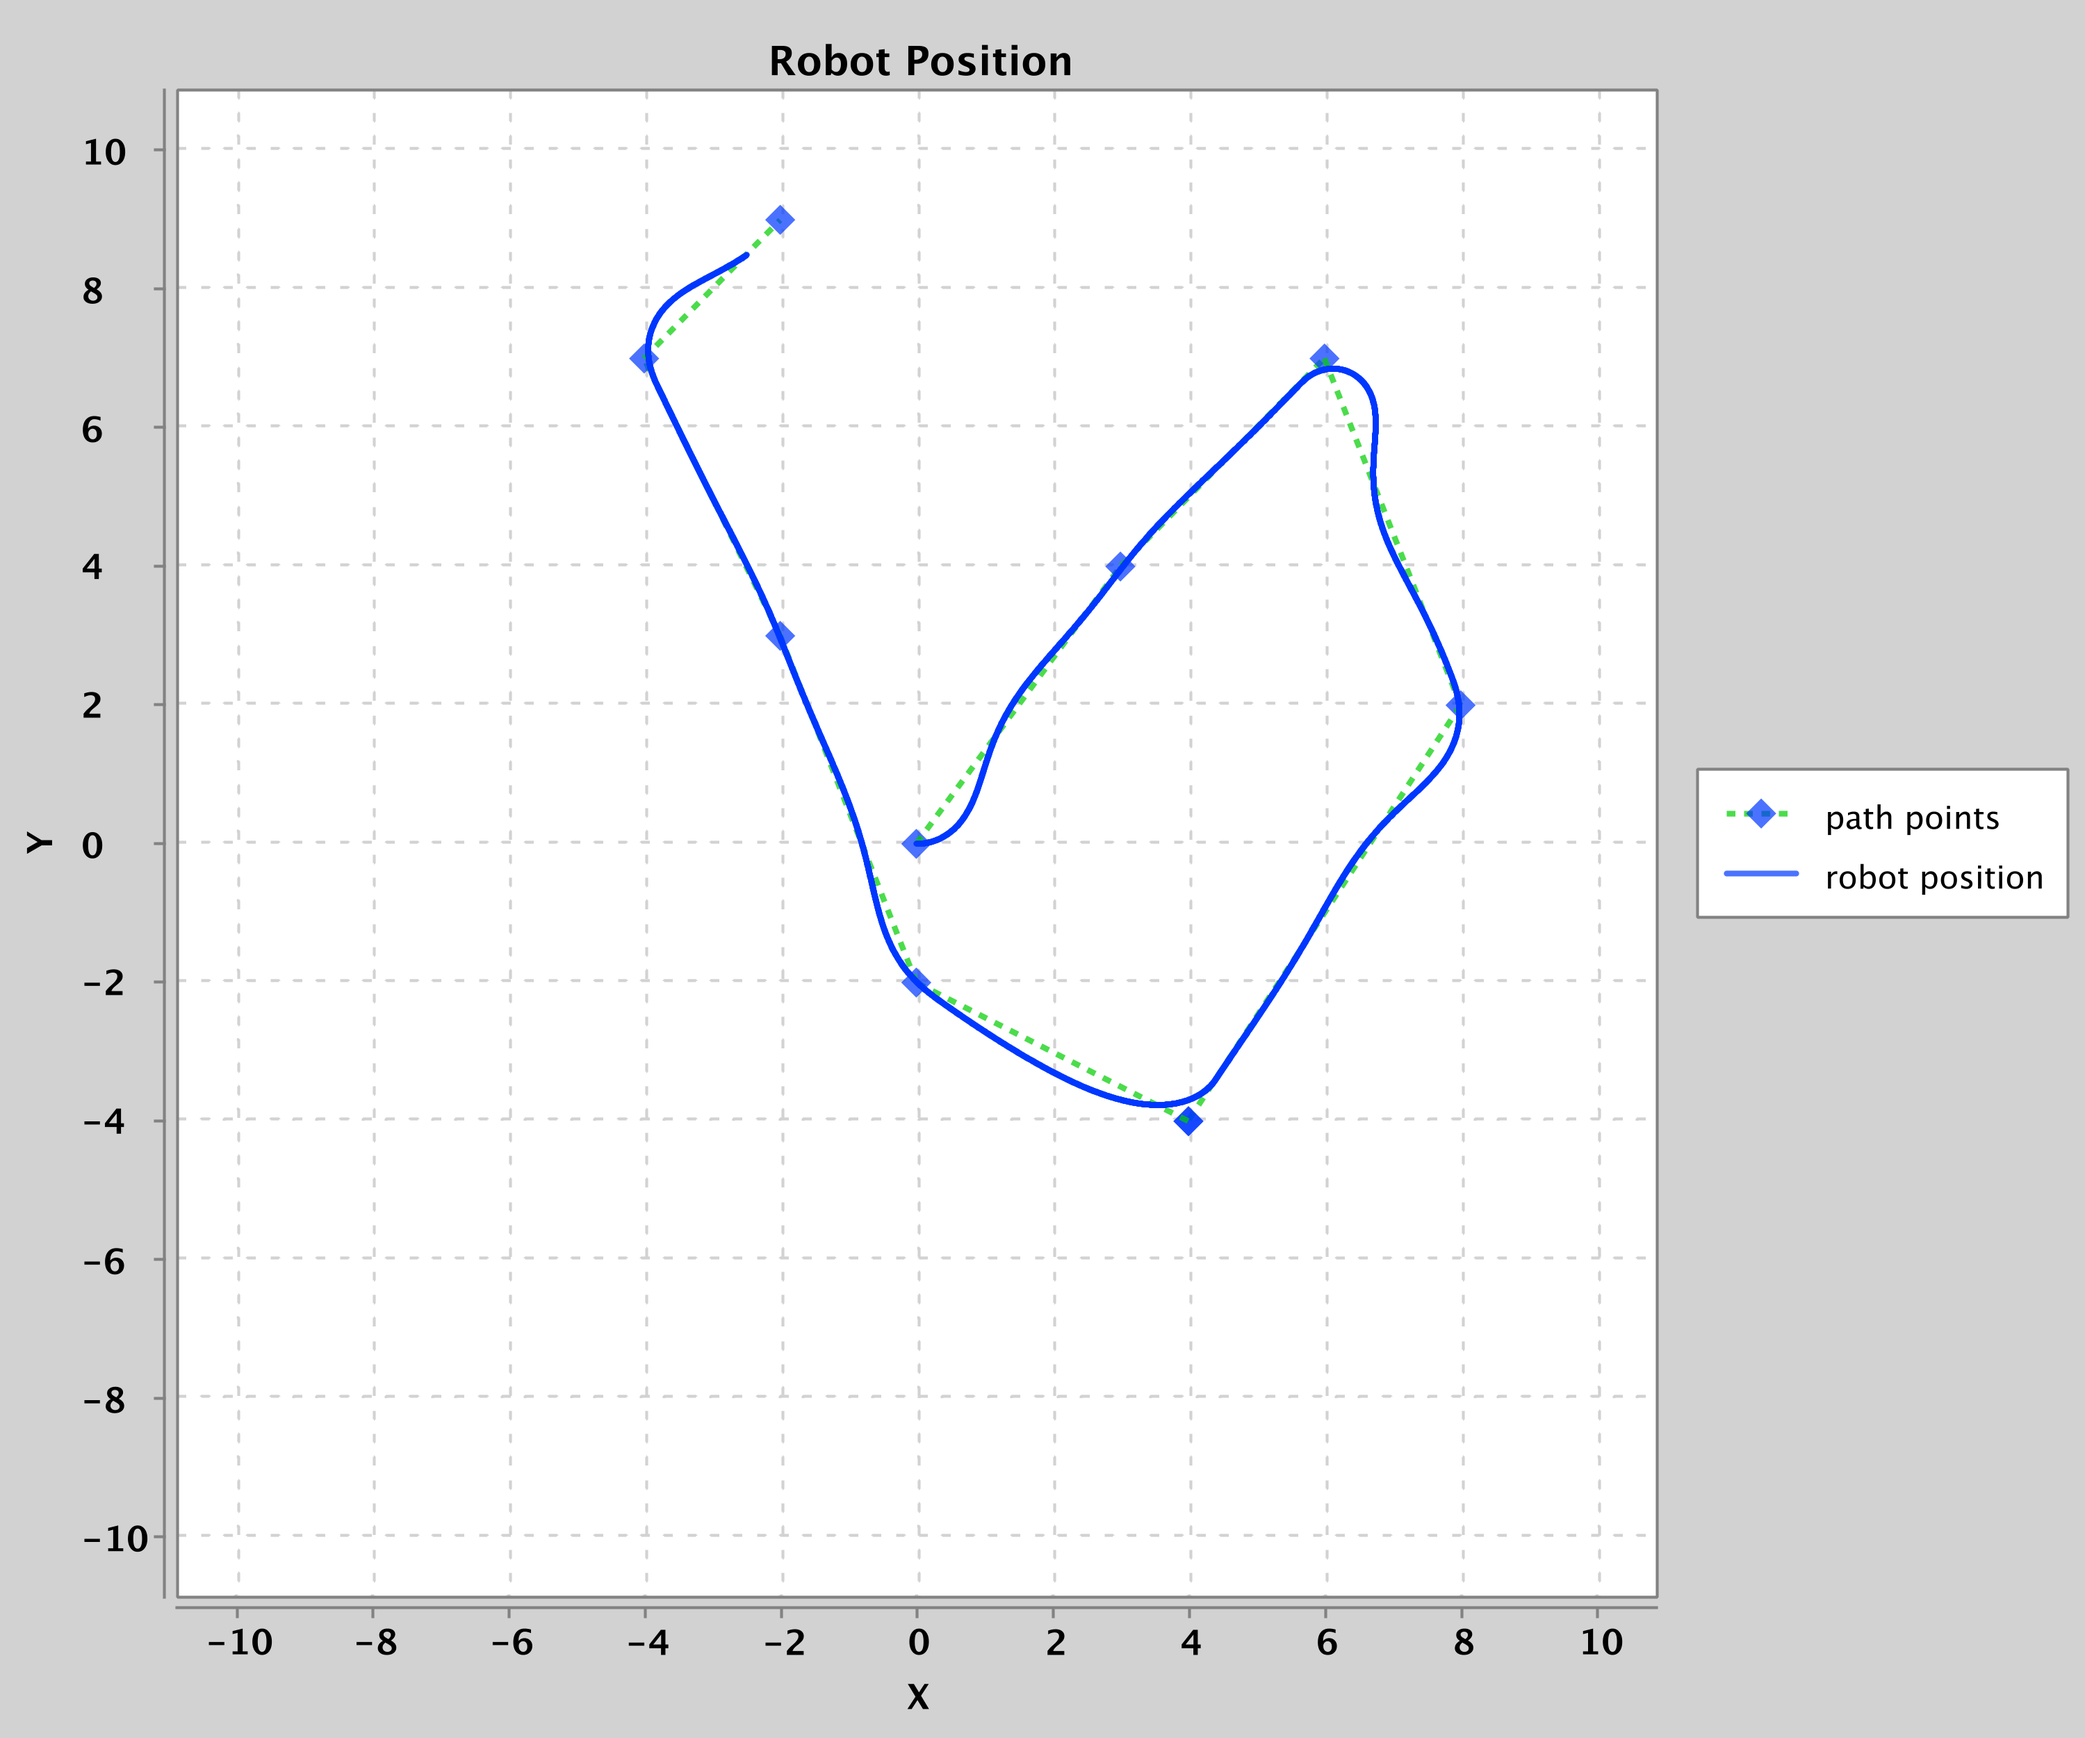
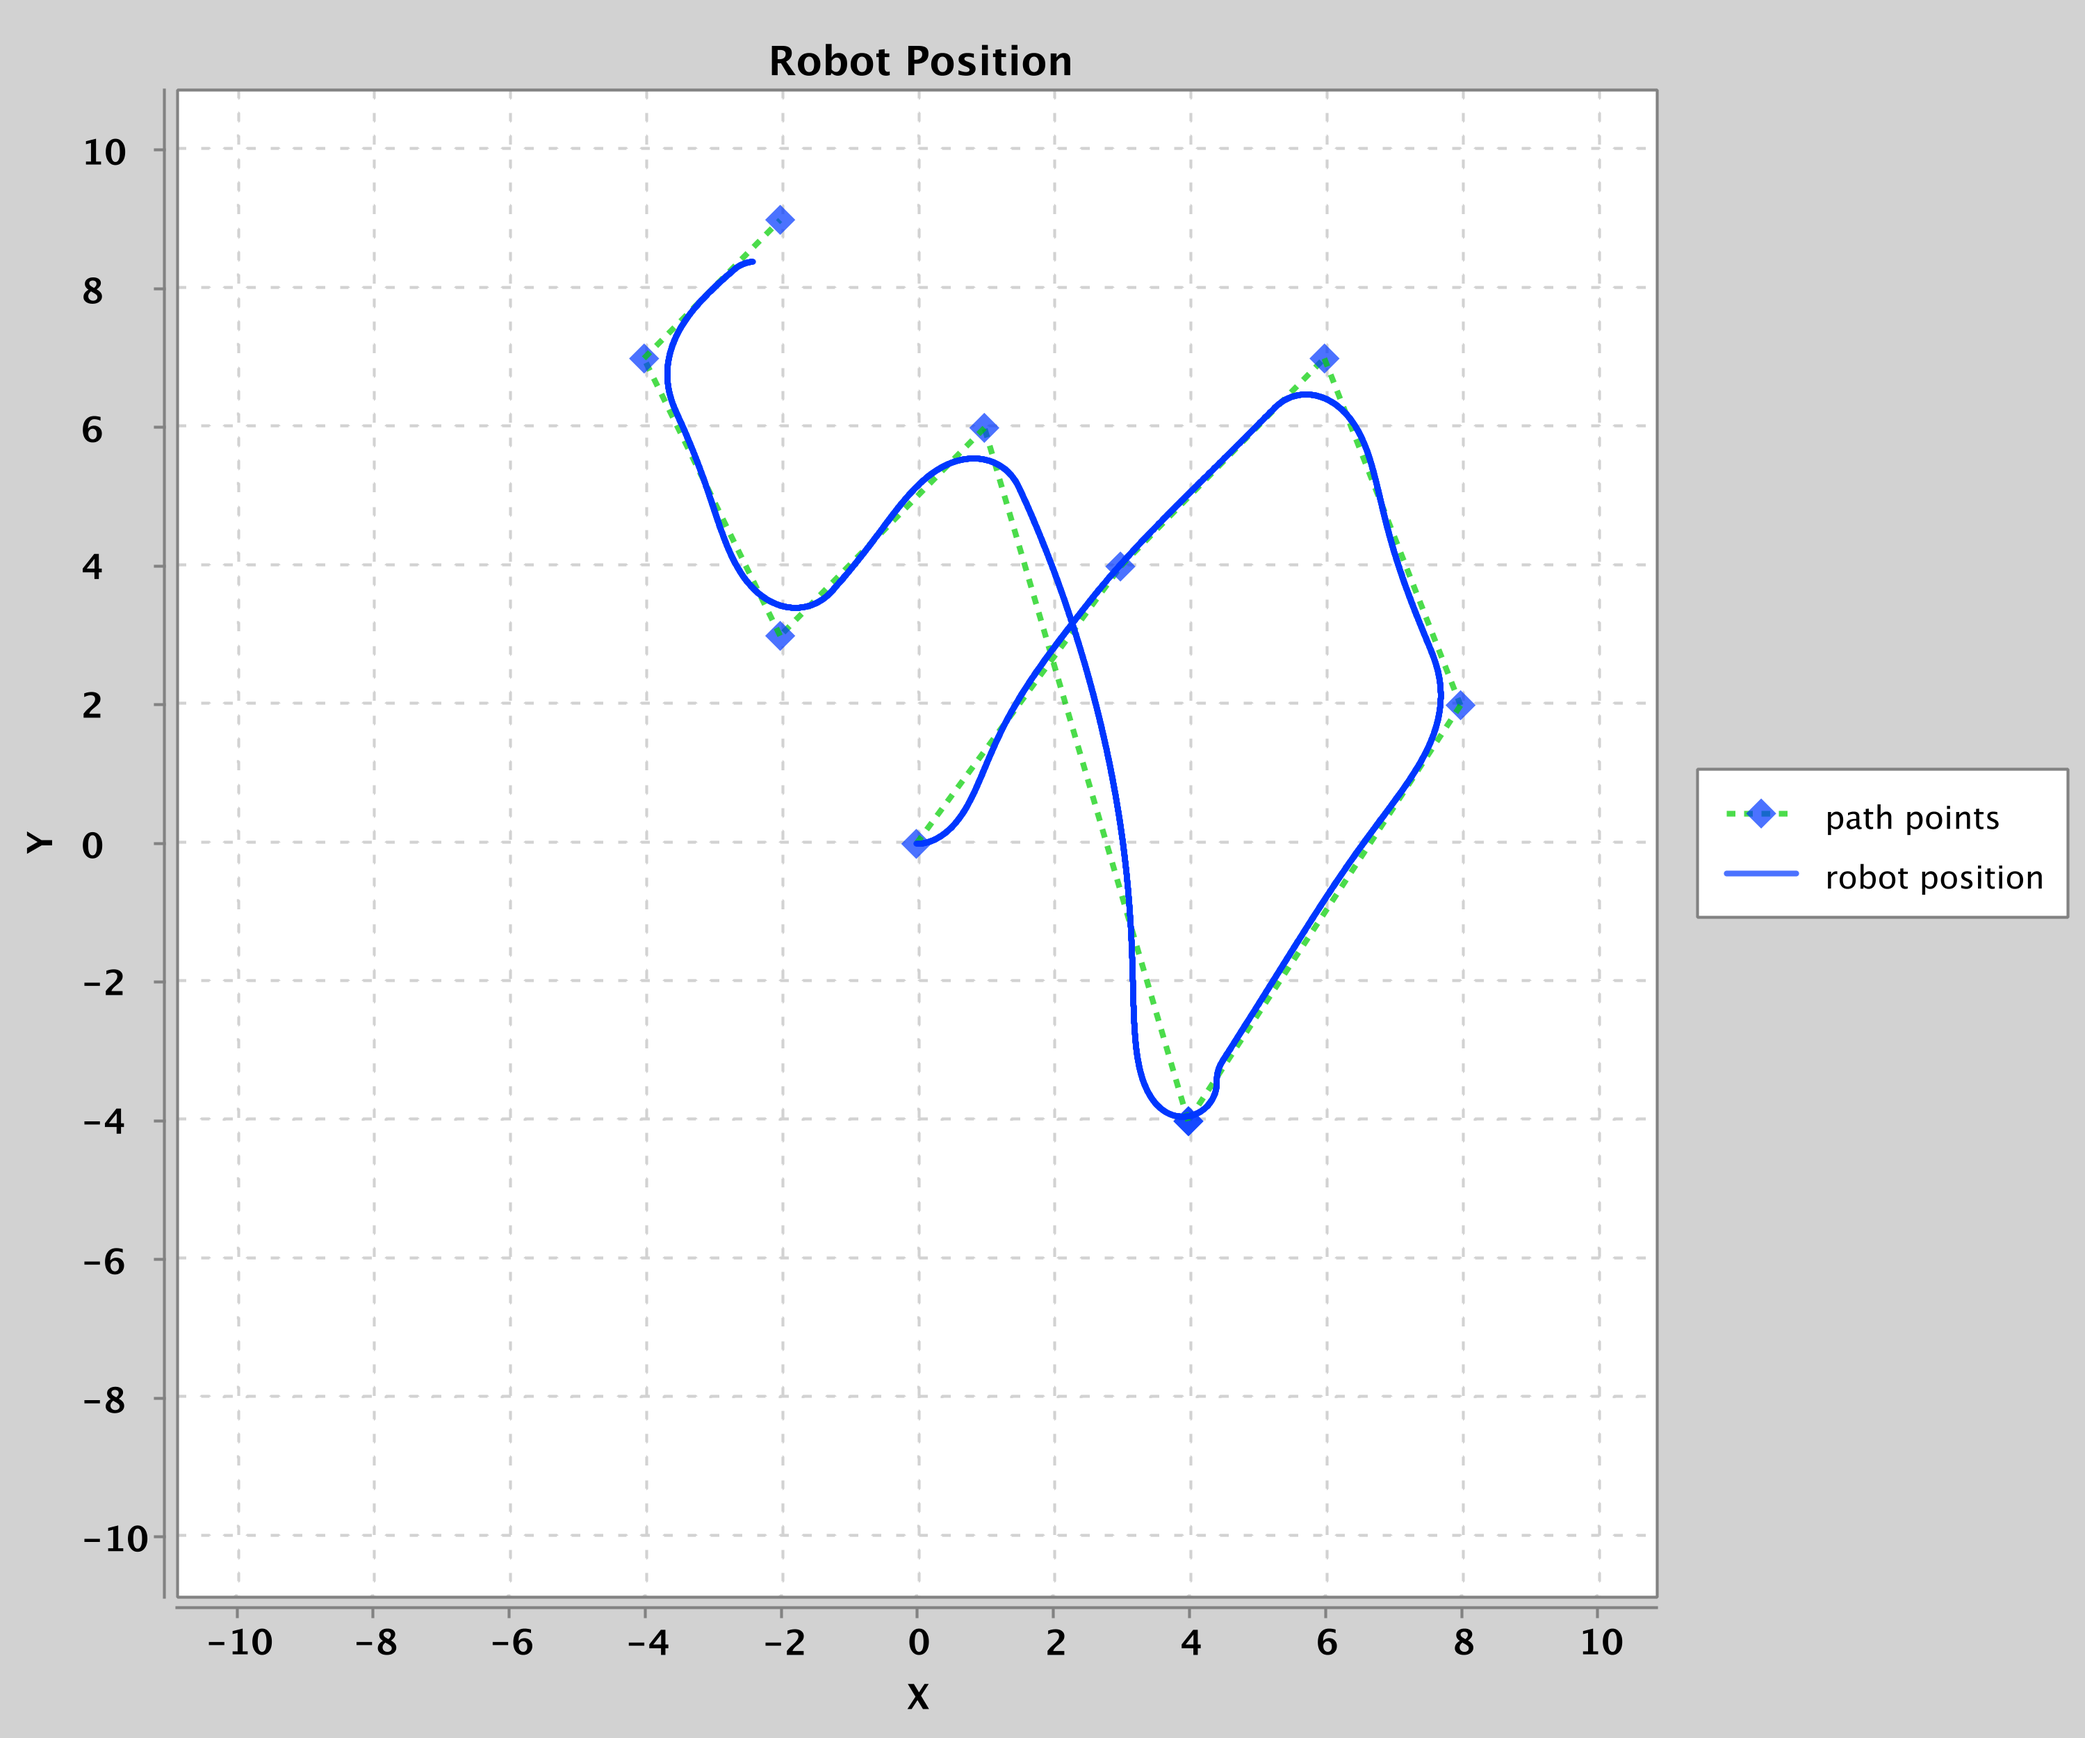
pid is amazing

diff --git a/src/main/java/space/anomaly/Framework/Frame.java b/src/main/java/space/anomaly/Framework/Frame.java
@@ -12,18 +12,18 @@ public class Frame {
     public static void main(String[] args) throws InterruptedException, IOException {
         ArrayList<ArrayList<PathPoint>> sections = new ArrayList<ArrayList<PathPoint>>();
         ArrayList<PathPoint> path1 = new ArrayList<PathPoint>();
-        path1.add(new PathPoint(0.0, 0.0, 1.0, 1.0, 0.5));
-        path1.add(new PathPoint(3, 4, 1.0, 1.0, 0.5));
-        path1.add(new PathPoint(6, 7, 0.5, 1.0, 0.5));
-        path1.add(new PathPoint(8, 2, 1.0, 1.0, 0.5));
-        path1.add(new PathPoint(4, -4, 1.0, 1.0, 0.5));
+        path1.add(new PathPoint(0.0, 0.0, 1.0, 1.0, 1));
+        path1.add(new PathPoint(3, 4, 1.0, 1.0, 1));
+        path1.add(new PathPoint(6, 7, 0.5, 1.0, 1));
+        path1.add(new PathPoint(8, 2, 1.0, 1.0, 1));
+        path1.add(new PathPoint(4, -4, 1.0, 1.0, 1));
 
         ArrayList<PathPoint> path2 = new ArrayList<PathPoint>();
-        path1.add(new PathPoint(4, -4, 1.0, 1.0, 0.5));
-        path2.add(new PathPoint(0, -2, 1.0, 1.0, 0.5));
-        path2.add(new PathPoint(-2, 3, 1.0, 1.0, 0.5));
-        path2.add(new PathPoint(-4, 7, 1.0, 1.0, 0.5));
-        path2.add(new PathPoint(-2, 9, 1.0, 1.0, 0.5));
+        path1.add(new PathPoint(4, -4, 1.0, 1.0, 1));
+        path2.add(new PathPoint(1, 6, 1.0, 1.0, 1));
+        path2.add(new PathPoint(-2, 3, 1.0, 1.0, 1));
+        path2.add(new PathPoint(-4, 7, 1.0, 1.0, 1));
+        path2.add(new PathPoint(-2, 9, 1.0, 1.0, 1));
 
         sections.add(path1);
         sections.add(path2);

diff --git a/src/main/java/space/anomaly/Controllers/SectionedPurePursuit.java b/src/main/java/space/anomaly/Controllers/SectionedPurePursuit.java
@@ -5,6 +5,7 @@ import org.knowm.xchart.style.colors.XChartSeriesColors;
 import org.knowm.xchart.style.lines.SeriesLines;
 import org.knowm.xchart.style.markers.SeriesMarkers;
 import space.anomaly.Math.MathFunctions;
+import space.anomaly.Math.PID;
 import space.anomaly.Math.PathPoint;
 import space.anomaly.Math.Point;
 import space.anomaly.Models.Differential;
@@ -15,6 +16,8 @@ import java.util.List;
 
 public class SectionedPurePursuit extends Controller {
     public Differential model;
+
+    public PID pid = new PID(1.0, 1.0, 2.0);
 
     public ArrayList<ArrayList<PathPoint>> sections;
     public double radius = 1.0;
@@ -137,7 +140,7 @@ public class SectionedPurePursuit extends Controller {
 
     public void goToGoal(Point goal, double speed) throws InterruptedException {
         double vl, vr;
-        double K = 2.0;
+        double K = 1.0;
         double angleToTarget = MathFunctions.angleWrap(Math.atan2(goal.y - model.model_y, goal.x - model.model_x) - model.model_theta);
 
         double error = (angleToTarget / Math.PI) * speed;
@@ -145,8 +148,10 @@ public class SectionedPurePursuit extends Controller {
         errorList.add(error);
         loopNum.add(errorList.size());
 
-        vl = K * (speed + error);
-        vr = K * (speed - error);
+        double output = pid.run(error, model.loopTime);
+
+        vl = K * (speed + output);
+        vr = K * (speed - output);
 
 
         model.run(vl, vr);

diff --git a/src/main/java/space/anomaly/Controllers/PurePursuit.java b/src/main/java/space/anomaly/Controllers/PurePursuit.java
@@ -8,6 +8,7 @@ import space.anomaly.Math.MathFunctions;
 import space.anomaly.Math.PathPoint;
 import space.anomaly.Math.Point;
 import space.anomaly.Models.Differential;
+import space.anomaly.Math.PID;
 
 import java.io.IOException;
 import java.util.ArrayList;
@@ -15,6 +16,8 @@ import java.util.List;
 
 public class PurePursuit extends Controller {
     public Differential model;
+
+    public PID pidController = new PID(1.0, 1.0, 1.0);
 
     public ArrayList<PathPoint> path;
     public double radius = 1.0;
@@ -135,7 +138,7 @@ public class PurePursuit extends Controller {
 
     public void goToGoal(Point goal, double speed) throws InterruptedException {
         double vl, vr;
-        double K = 2.0;
+        double K = 1.0;
         double angleToTarget = MathFunctions.angleWrap(Math.atan2(goal.y - model.model_y, goal.x - model.model_x) - model.model_theta);
 
         double error = (angleToTarget / Math.PI) * speed;
@@ -143,8 +146,10 @@ public class PurePursuit extends Controller {
         errorList.add(error);
         loopNum.add(errorList.size());
 
-        vl = K * (speed + error);
-        vr = K * (speed - error);
+        double output = pidController.run(error, model.loopTime);
+
+        vl = K * (speed + output);
+        vr = K * (speed - output);
 
 
         model.run(vl, vr);

diff --git a/src/main/java/space/anomaly/Math/PID.java b/src/main/java/space/anomaly/Math/PID.java
@@ -1,0 +1,42 @@
+package space.anomaly.Math;
+
+public class PID {
+    public double Kp;
+    public double Ki;
+    public double Kd;
+
+    private double error, integral, derivative, lastError;
+
+    public PID() {
+        Kp = 1.0;
+        Ki = 1.0;
+        Kd = 1.0;
+    }
+
+    public PID(double Kp, double Ki, double Kd) {
+        this.Kp = Kp;
+        this.Ki = Ki;
+        this.Kd = Kd;
+
+    }
+
+
+    public double run(double error, double iterationTime) {
+        double output = 0.0;
+
+        integral += ((error + lastError) / 2) * iterationTime / 1000;
+        derivative = error - lastError;
+
+        output = Kp * error + Ki * integral + Kd * derivative;
+
+        return output;
+    }
+
+    public void reset() {
+        error = 0;
+        lastError = 0;
+        integral = 0;
+        derivative = 0;
+    }
+
+}
